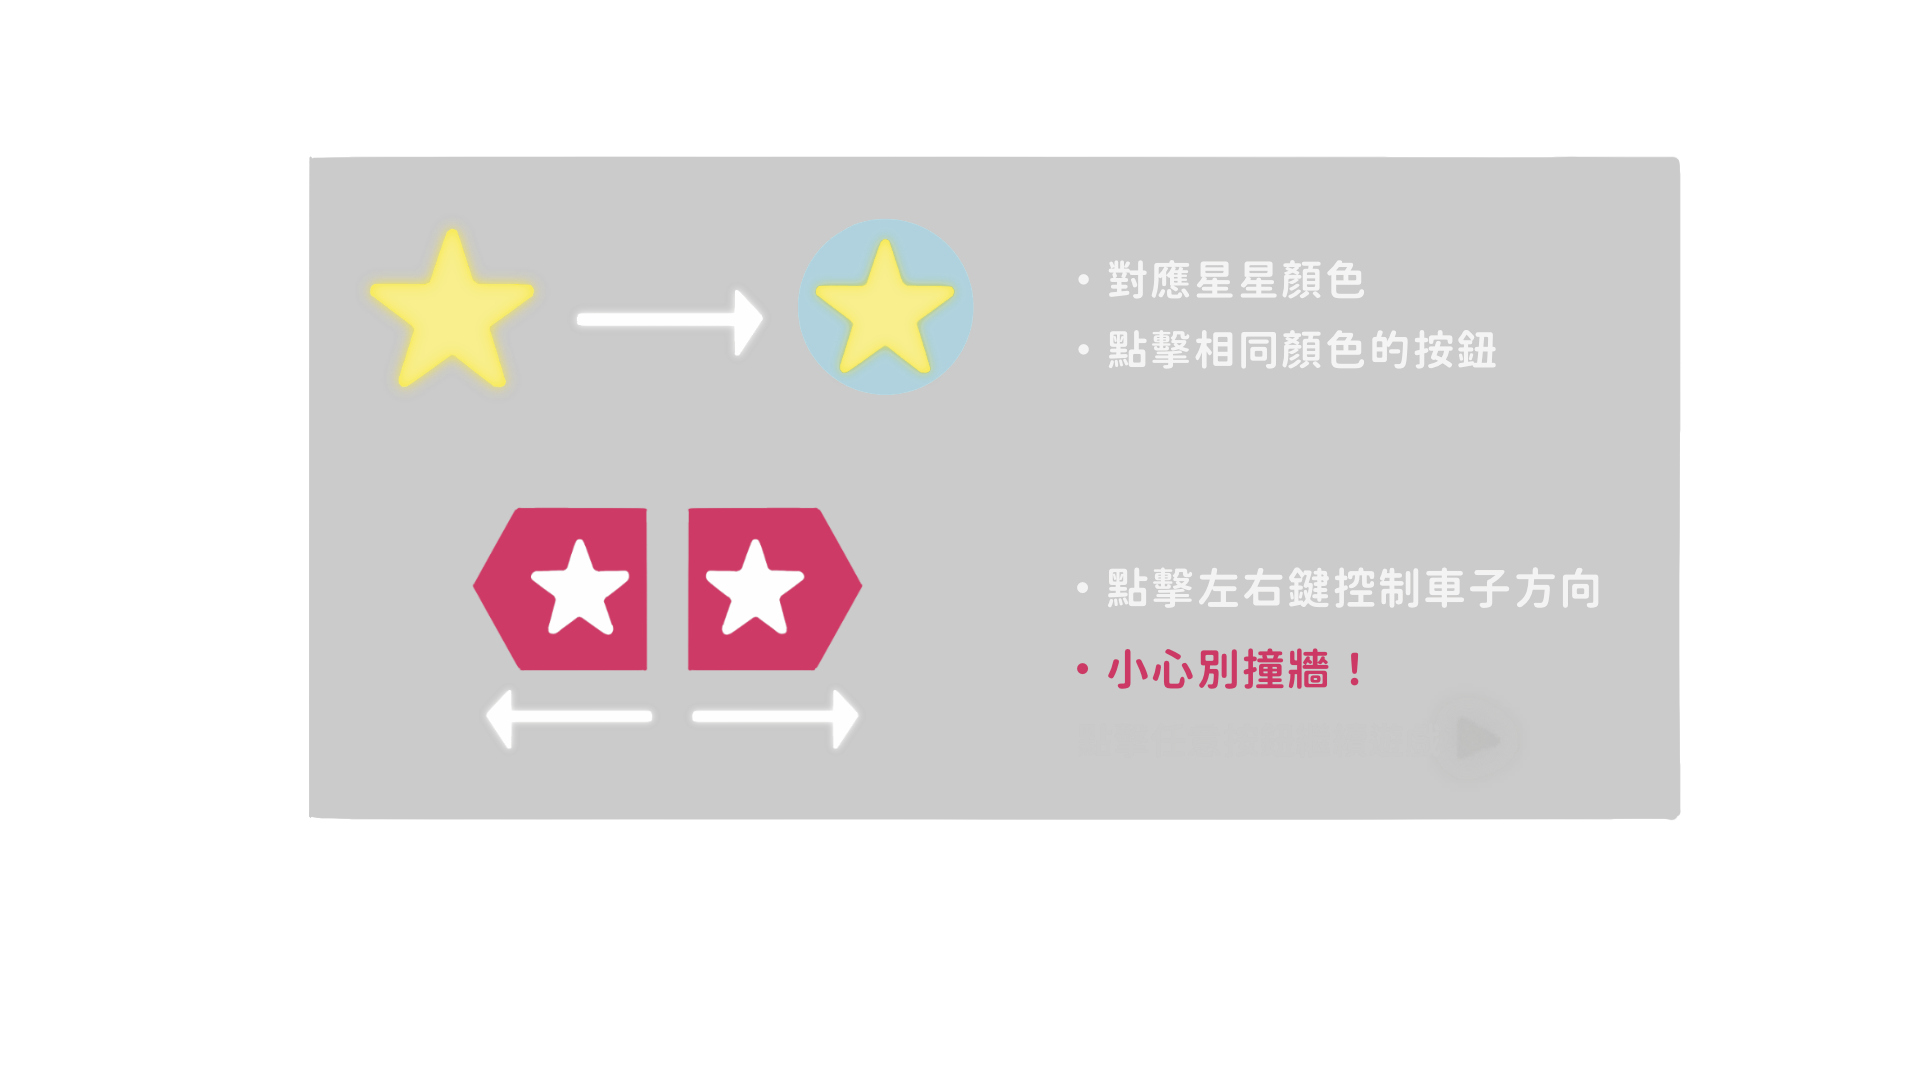
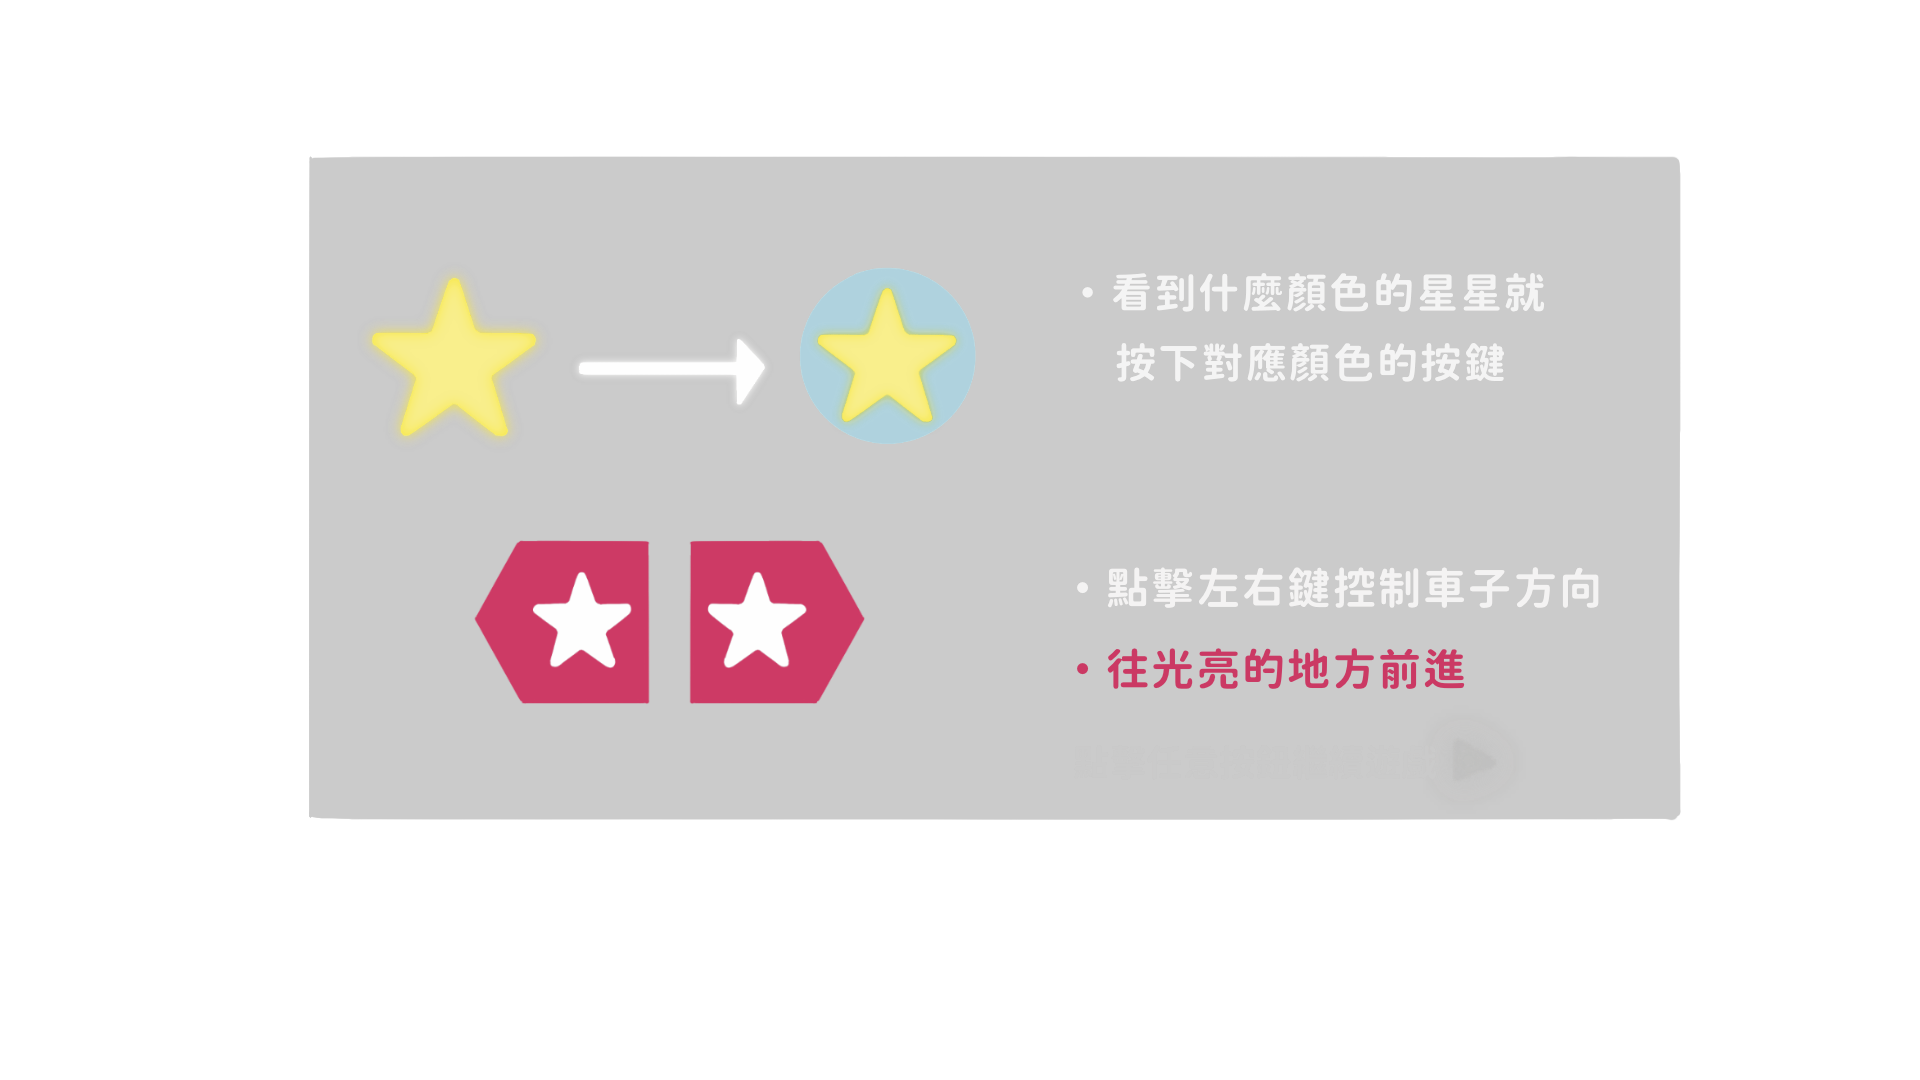
更動細節

diff --git a/Assets/Scripts/level1/ColorSequenceGenerator.cs b/Assets/Scripts/level1/ColorSequenceGenerator.cs
@@ -118,9 +118,13 @@ public class ColorSequenceGenerator : MonoBehaviour
                 {
                     CheckInput(cube, new Color(1f, 0.5f, 0f));
                 }
-                if (Input.GetKeyDown(KeyCode.Mouse1))
+                if (Input.GetKeyDown(KeyCode.Space))
                 {
                     CheckInput(cube, Color.white);
+                }
+                if (Input.GetKeyDown(KeyCode.DownArrow))
+                {
+                    CheckInput(cube, new Color(0.5f, 0.5f, 0.5f));
                 }
             }
         }

diff --git a/Assets/Scripts/level3/CrosshairAim.cs b/Assets/Scripts/level3/CrosshairAim.cs
@@ -120,11 +120,11 @@ public class CrosshairAim : MonoBehaviour
         float horizontal = 0f;
         float vertical = 0f;
 
-        if (Input.GetKey(KeyCode.S))
+        if (Input.GetKey(KeyCode.W))
         {
             vertical = 1f;
         }
-        else if (Input.GetKey(KeyCode.W))
+        else if (Input.GetKey(KeyCode.S))
         {
             vertical = -1f;
         }

diff --git a/Assets/Scripts/SecondTutorial.cs b/Assets/Scripts/SecondTutorial.cs
@@ -1,7 +1,18 @@
+using System.Collections;
+using System.Collections.Generic;
 using UnityEngine;
-using UnityEngine.UI;
 
 public class SecondTutorial : MonoBehaviour
 {
+    // Start is called before the first frame update
+    void Start()
+    {
+        
+    }
 
+    // Update is called once per frame
+    void Update()
+    {
+        
+    }
 }

diff --git a/Assets/Scripts/LevelIntro1.cs b/Assets/Scripts/LevelIntro1.cs
@@ -107,7 +107,7 @@ public class LevelIntro1 : MonoBehaviour
 
    void Update()
     {
-        if (showEndImage && Input.GetMouseButton(1))
+        if (showEndImage && Input.anyKey)
         {
             StartGame();
         }
